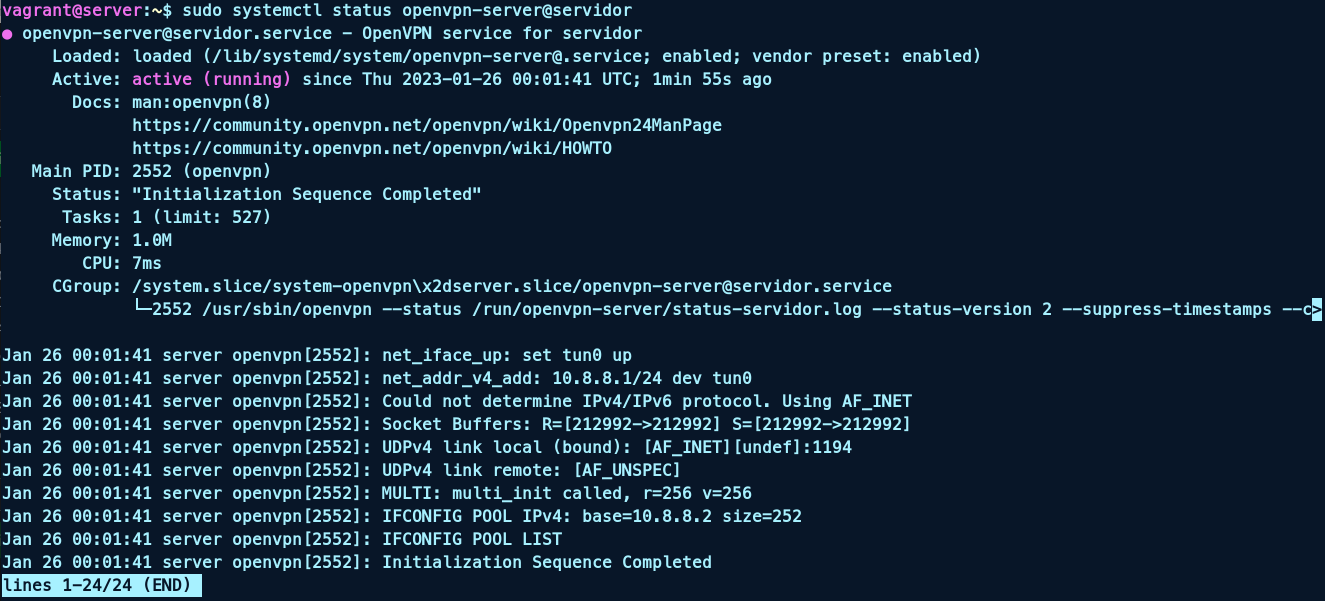
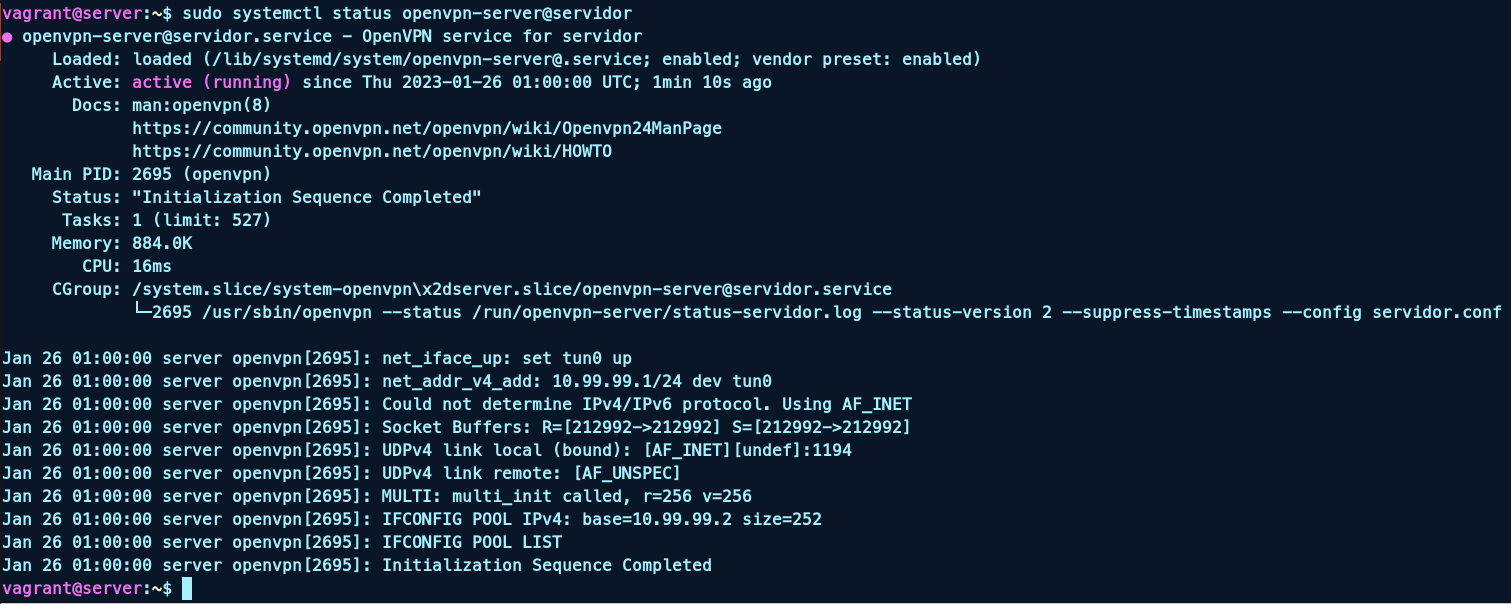
p

Changed region(s): [[0.0, 0.5691, 1.0, 1.0], [0.0, 0.0, 1.0, 0.5391]]

diff --git a/docs/Tasks/vpn.md b/docs/Tasks/vpn.md
@@ -96,7 +96,7 @@ config.vm.synced_folder ".", "/vagrant", disabled: true
     maquina1.vm.box = "debian/bullseye64"
     maquina1.vm.hostname = "maquina1"
     maquina1.vm.network :private_network,
-      :libvirt__network_name => "interna",
+      :libvirt__network_name => "interna-vpn",
       :libvirt__dhcp_enabled => false,
       :ip => "172.22.0.7",
       :libvirt__netmask => '255.255.255.0',
@@ -293,11 +293,11 @@ topology subnet
 # Each client will be able to reach the server
 # on 10.8.0.1. Comment this line out if you are
 # ethernet bridging. See the man page for more info.
-#Configuración del tunel donde la ip del servidor: 10.8.8.1
-server 10.8.8.0 255.255.255.0
+#Configuración del tunel donde la ip del servidor: 10.99.99.1
+server 10.99.99.0 255.255.255.0 
 ifconfig-pool-persist /var/log/openvpn/ipp.txt
 
-push "route 192.168.22.0 255.255.255.0"
+push "route 172.22.0.0 255.255.255.0" #IP de la red interna
 
 keepalive 10 120
 cipher AES-256-CBC
@@ -329,6 +329,97 @@ sudo systemctl status openvpn-server@servidor
 ```
 
 ![vpn](/img/SAD/vpnSAD.png)
+
+
+#### client
+
+Instalamos openvpn en el cliente:
+
+```bash
+sudo apt install openvpn
+```
+
+Y movemos los ficheros de configuración a la carpeta /etc/openvpn/client para que el cliente pueda conectarse al servidor y cambiamos el propietario de los ficheros:
+
+```bash
+sudo mv ~/ca.crt /etc/openvpn/client
+sudo mv ~/client.crt /etc/openvpn/client
+sudo mv ~/client.key /etc/openvpn/client
+
+sudo chown root: /etc/openvpn/client/*
+```
+
+Configuramos el cliente VPN copiando el fichero de configuración de ejemplo de openvpn:
+
+```bash
+sudo cp /usr/share/doc/openvpn/examples/sample-config-files/client.conf /etc/openvpn/client/cliente.conf
+```
+
+Modificamos el fichero de configuración del cliente para que quede de la siguiente forma:
+
+```bash
+client
+dev tun
+proto udp
+
+remote 192.168.22.17 1194 #IP del servidor
+resolv-retry infinite
+nobind
+
+persist-key
+persist-tun
+
+ca /etc/openvpn/client/ca.crt
+cert /etc/openvpn/client/client.crt
+key /etc/openvpn/client/client.key
+
+remote-cert-tls server
+cipher AES-256-CBC
+verb 3
+```
+
+Habilitamos el servicio de openvpn:
+
+```bash
+sudo systemctl enable --now openvpn-client@cliente
+```
+
+Obteniendo de resultado:
+
+```bash
+vagrant@client:~$ sudo systemctl enable --now openvpn-client@cliente
+
+Created symlink /etc/systemd/system/multi-user.target.wants/openvpn-client@cliente.service → /lib/systemd/system/openvpn-client@.service.
+```
+
+Y comprobamos que el servicio está activo:
+
+```bash
+sudo systemctl status openvpn-client@cliente
+```
+
+![vpn](/img/SAD/vpnSAD-2.png)
+
+#### maquina1
+
+En esta máquina cambiamos las rutas por defecto para que todas las peticiones que se hagan por la red interna pasen por el servidor VPN y no por el router, colocando la ip de la red interna del servidor VPN como puerta de enlace:
+
+```bash
+sudo ip route del default
+sudo ip route add default via 172.22.0.5
+```
+
+#### Comprobación
+
+Desde la máquina client hacemos una petición a la máquina1:
+
+```bash
+```
+
+También a la maquina server:
+
+```bash
+```
 
 
 
